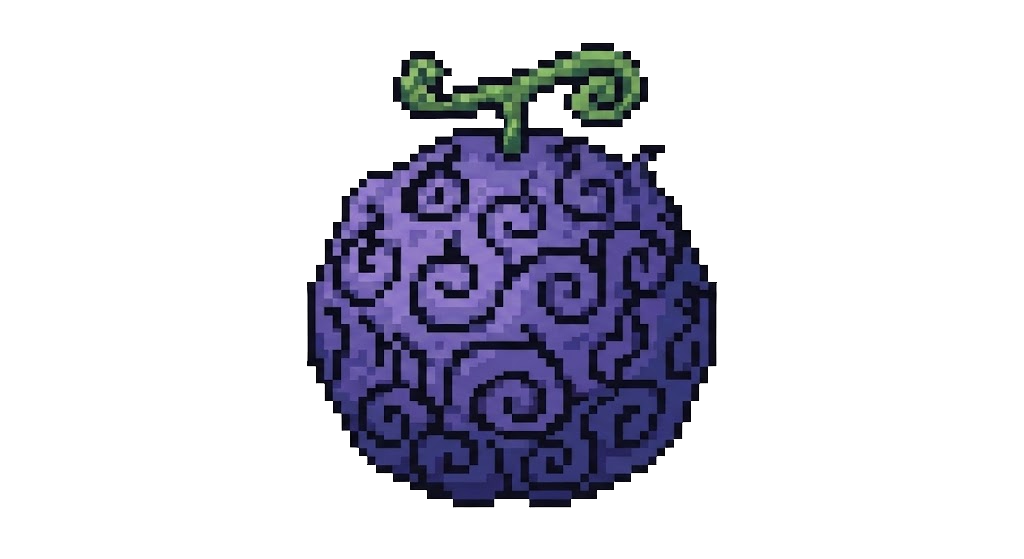
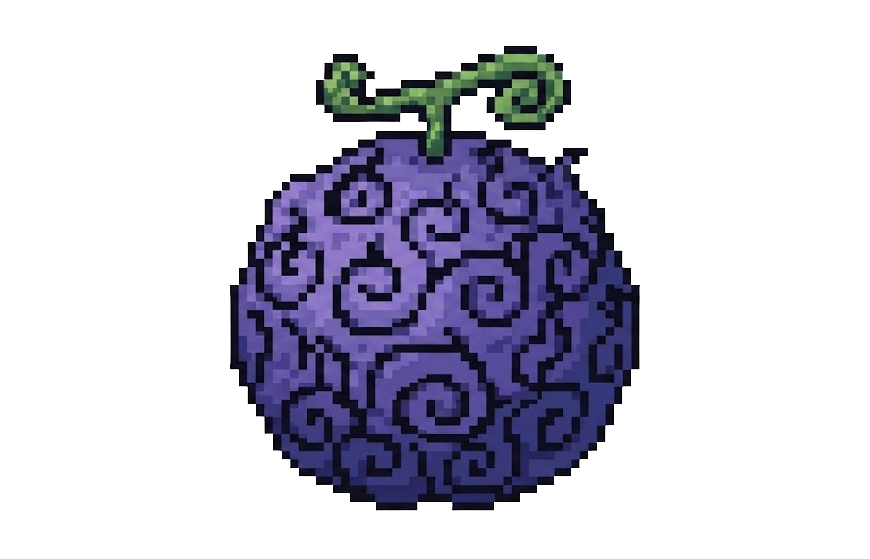
Bajado el multiplicador de mythics Corregido cancion.js ya no te dice el nombre de la cancion cuando pierdes Aumento de tamaño al gomugomu.png

Changed region(s): [[0.2483, 0.0608, 0.7448, 0.9123]]

diff --git a/commands/cancion.js b/commands/cancion.js
@@ -712,8 +712,7 @@ module.exports = {
             return interaction.reply({
 
                 content:
-                    `💀 Ya has agotado tus ${MAX_ATTEMPTS} intentos de hoy.\n` +
-                    `🎵 La canción era **${song.label}**.`,
+                    `💀 Ya has agotado tus ${MAX_ATTEMPTS} intentos de hoy.`,
 
                 ephemeral: true
 
@@ -1022,9 +1021,7 @@ module.exports = {
 
                 content:
 
-                    `💀 **${interaction.user.username}** ha fallado la canción de hoy.\n\n` +
-
-                    `🎵 La canción era **${song.label}**.`,
+                    `💀 **${interaction.user.username}** ha fallado la canción de hoy.`,
 
                 ephemeral: false
 

diff --git a/commands/minar.js b/commands/minar.js
@@ -85,8 +85,8 @@ const RARITY_MULTIPLIER = {
     "rare": 1.5,
     "very_rare": 4,
     "legendary": 8,
-    "mythic": 4,
-    "artifact": 11
+    "mythic": 3,
+    "artifact": 10
 };
 
 function getMineralMultiplier(mineral, streak) {
